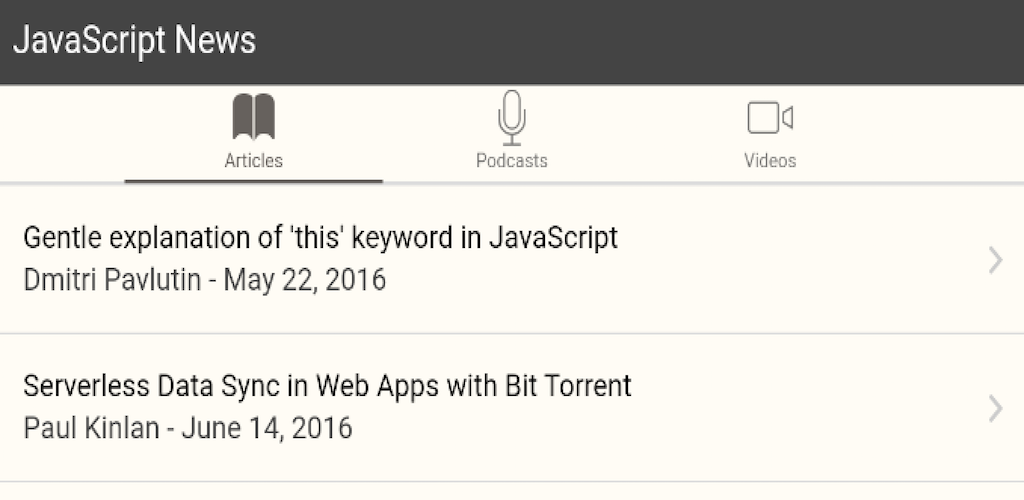
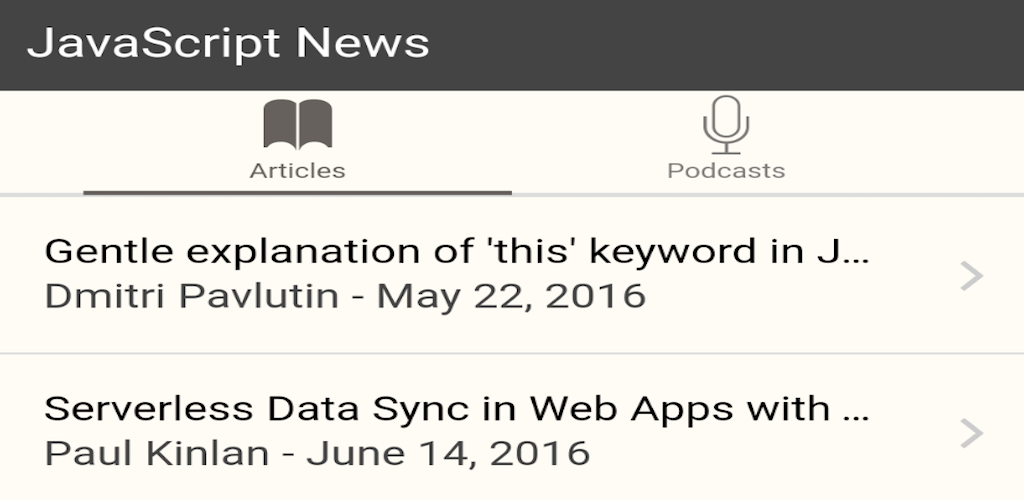
Remove support for showing videos

diff --git a/www/templates/tab-podcasts.html b/www/templates/tab-podcasts.html
@@ -1,4 +1,4 @@
-<ion-view on-swipe-left="podcastsSwipeLeft()" on-swipe-right="podcastsSwipeRight()" view-title="JavaScript News">
+<ion-view on-swipe-right="podcastsSwipeRight()" view-title="JavaScript News">
   <ion-content>
     <ion-list>
       <ion-item class="item item-icon-right" ng-repeat="podcast in podcasts" type="item-text-wrap" ng-click="incrementPodcast({{podcast}});openURL('{{podcast.url}}')">

diff --git a/www/templates/tabs.html b/www/templates/tabs.html
@@ -15,10 +15,4 @@ navigation history that also transitions its views in and out.
     <ion-nav-view name="tab-podcasts"></ion-nav-view>
   </ion-tab>
 
-  <!-- Videos Tab -->
-  <ion-tab title="Videos" icon-off="ion-ios-videocam-outline" icon-on="ion-ios-videocam" href="#/tab/videos">
-    <ion-nav-view name="tab-videos"></ion-nav-view>
-  </ion-tab>
-
-
 </ion-tabs>
